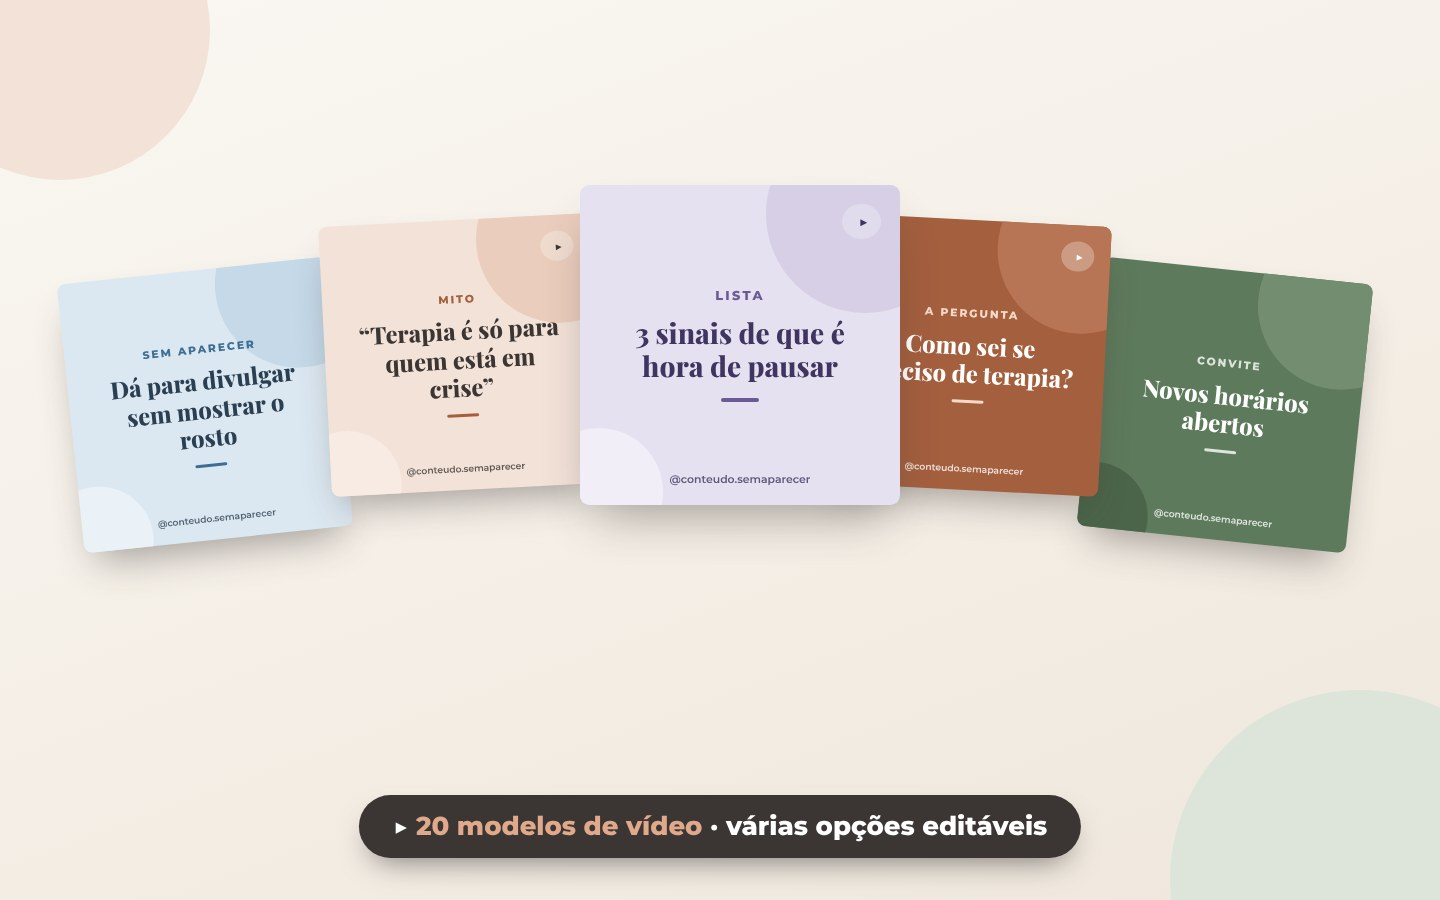
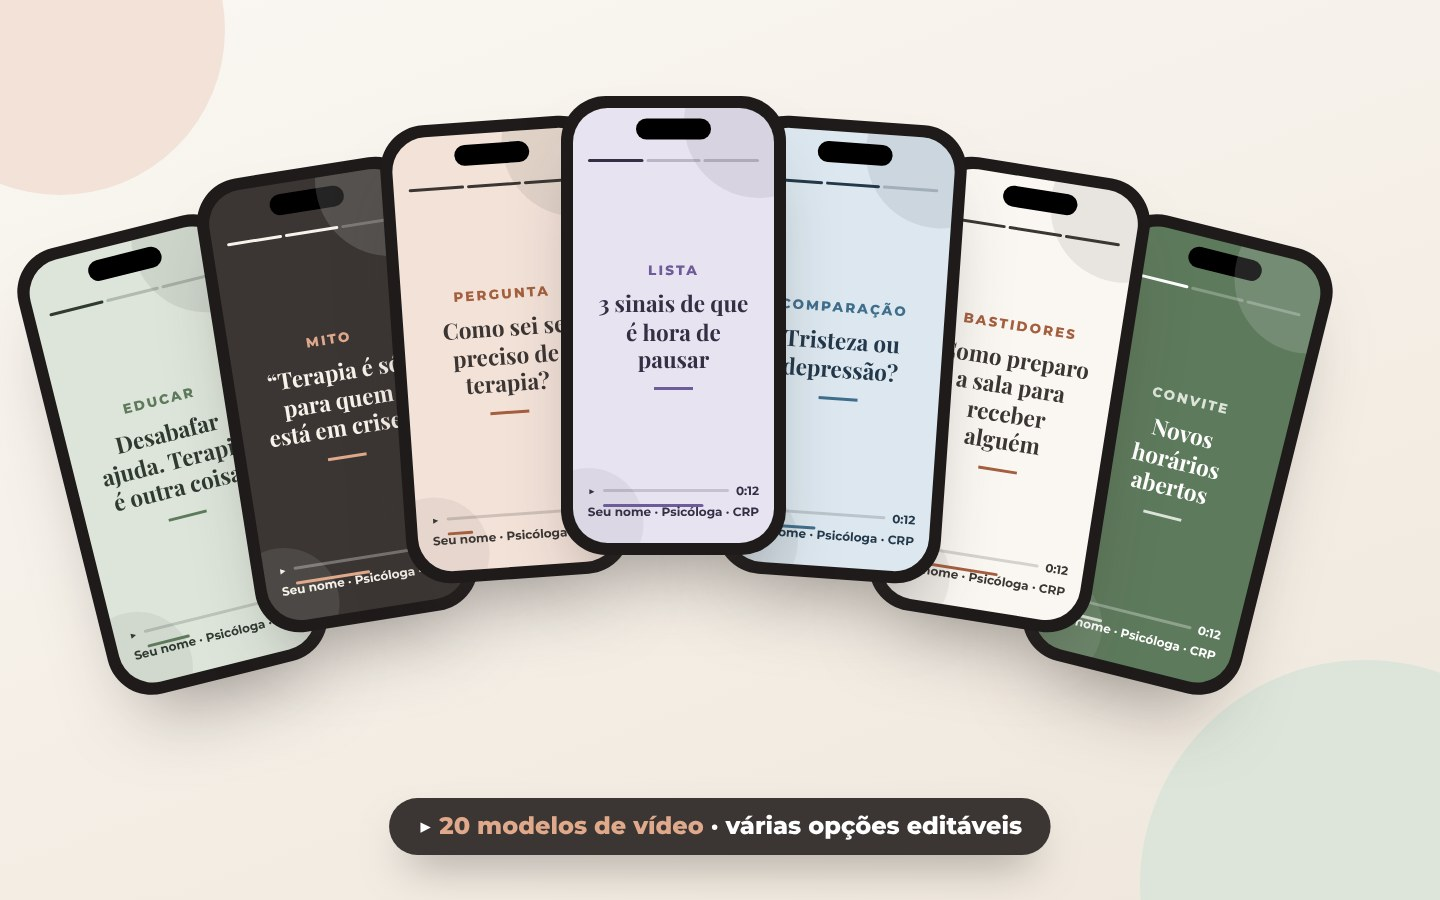
Pack 20 Modelos: volta aos celulares, agora com as bolinhas do Canva em cada tela
Claude-Session: https://claude.ai/code/session_019gApqEvePQwvVzz1sAvbWL

diff --git a/index.html b/index.html
@@ -1657,7 +1657,7 @@ html,body{overflow-x:clip}
       <article class="it"><div class="it-img"><picture><source media="(max-width:820px)" srcset="img/item-calendario-m.jpg?v=3" width="900" height="960"><img src="img/item-calendario.jpg?v=3" alt="Calendário 365 automático" loading="lazy" width="1440" height="900"></picture></div><div class="it-txt"><span class="it-tag">Calendário</span><h3>Calendário 365 automático</h3><p>Você coloca a data de início e ele organiza o seu ano inteiro: um pilar para cada dia da semana, mais de 700 temas e 8 datas especiais. Todo dia, a aba Hoje entrega o post do dia.</p></div></article>
       <article class="it"><div class="it-img"><picture><source media="(max-width:820px)" srcset="img/item-prompts-m.jpg?v=3" width="900" height="960"><img src="img/item-prompts.jpg?v=3" alt="Banco de 102 prompts para psicologia" loading="lazy" width="1440" height="900"></picture></div><div class="it-txt"><span class="it-tag">Prompts</span><h3>Banco de 102 prompts para psicologia</h3><p>Um pilar para cada dia da semana, de Educar a Convite, com 7 temas em cada prompt. Feitos considerando as orientações do CFP.</p></div></article>
       <article class="it"><div class="it-img"><picture><source media="(max-width:820px)" srcset="img/item-ficha-m.jpg?v=4" width="900" height="960"><img src="img/item-ficha.jpg?v=4" alt="Ficha do Negócio preenchida com um exemplo e a IA respondendo que vai escrever no tom da psicóloga" loading="lazy" width="1440" height="900"></picture></div><div class="it-txt"><span class="it-tag">Ficha</span><h3>Ficha do Negócio + Prompt de Contexto</h3><p>17 perguntas curtas, respondidas uma vez só. A sua IA passa a escrever com a sua abordagem, o seu público e o seu tom. Com guia para ChatGPT, Gemini e Claude.</p></div></article>
-      <article class="it it-op"><div class="it-img"><picture><source media="(max-width:820px)" srcset="img/item-pack-m.jpg?v=4" width="900" height="960"><img src="img/item-pack.jpg?v=4" alt="Pack 20 Modelos Canva" loading="lazy" width="1440" height="900"></picture></div><div class="it-txt"><span class="it-tag">Opcional · R$ 27</span><h3>Pack 20 Modelos Canva</h3><p>20 modelos de vídeo com texto centralizado: troque o texto e baixe em MP4. Funciona com o Canva gratuito. Você adiciona no pagamento, se quiser.</p></div></article>
+      <article class="it it-op"><div class="it-img"><picture><source media="(max-width:820px)" srcset="img/item-pack-m.jpg?v=5" width="900" height="960"><img src="img/item-pack.jpg?v=5" alt="Pack 20 Modelos Canva" loading="lazy" width="1440" height="900"></picture></div><div class="it-txt"><span class="it-tag">Opcional · R$ 27</span><h3>Pack 20 Modelos Canva</h3><p>20 modelos de vídeo com texto centralizado: troque o texto e baixe em MP4. Funciona com o Canva gratuito. Você adiciona no pagamento, se quiser.</p></div></article>
     </div>
     <div class="guias">
       <div class="guias-txt">
